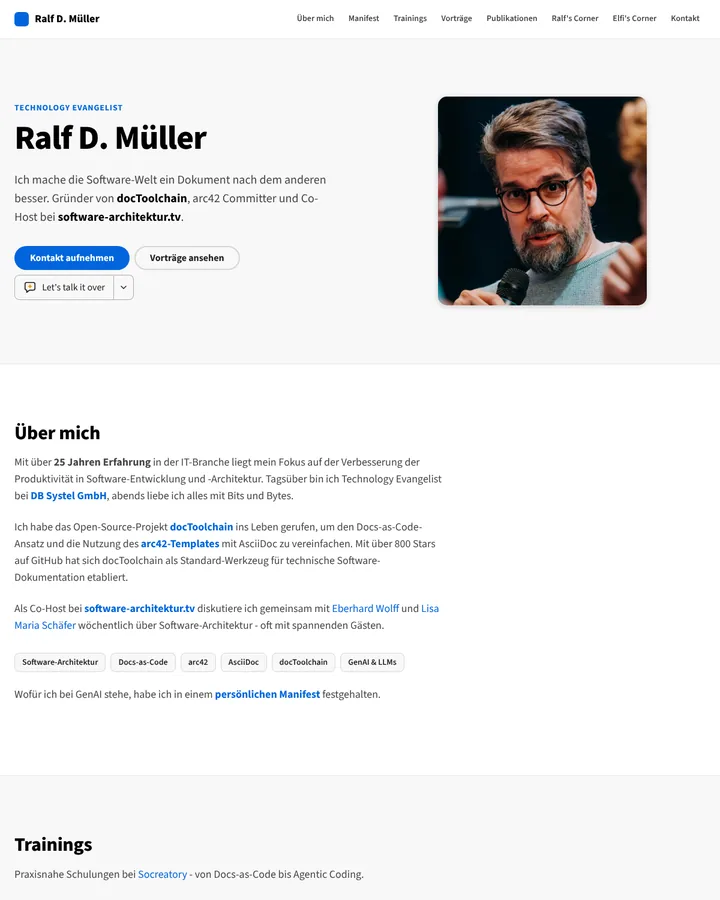
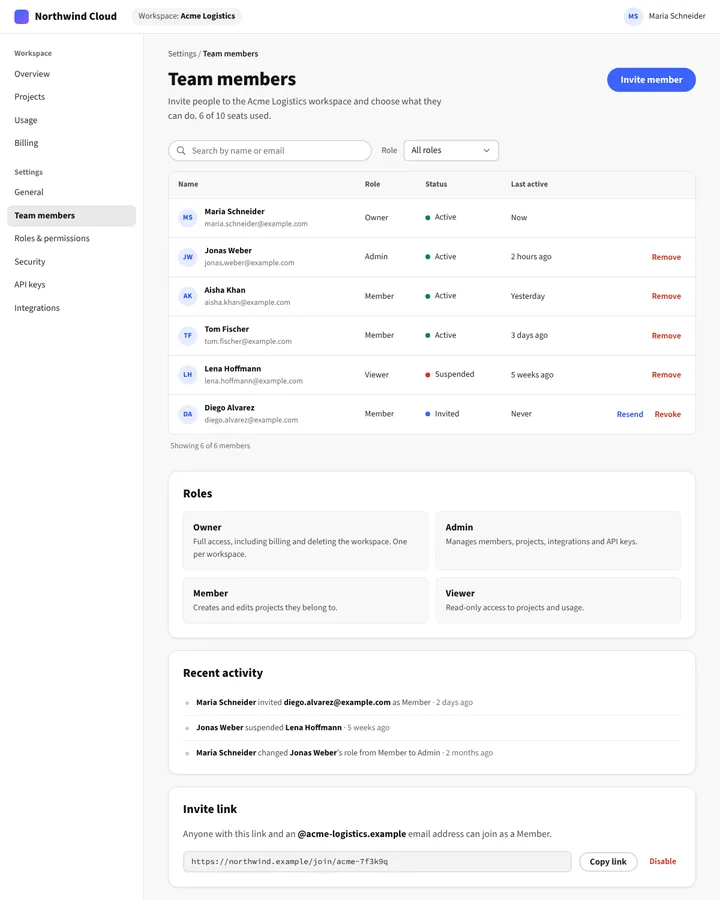
feat: app-page examples for the eleven design systems (#872)
Eleven Claude Opus 5.5 sessions, one per design-system anchor, each
redesigned the neutral "Team members" settings page with the gallery
prompt; one run each, no rerolls, every session checked its result in
a browser. The screenshots replace the homepage placeholders.

Two pages load their system's stylesheet from jsDelivr (USWDS,
Bootstrap 5). jsDelivr's /npm/ path serves npm package files byte for
byte, and npm is reachable from the screenshot environment, so those
files are served from the same packages; the gallery says so.

Claude-Session: https://claude.ai/code/session_01USvGjB2BpZmXPyxaoevKH5

diff --git a/scripts/lib/style-gallery.js b/scripts/lib/style-gallery.js
@@ -50,7 +50,7 @@ const TEXT = {
         heading: 'Design systems: one app page',
         intro: [
           'Design systems are made for product interfaces. Their differences show in tables, status labels, page headers and density, and a homepage has little of that. So the design systems redesign an app page instead: the "Team members" settings page of a fictional admin console, written for this gallery in a deliberately plain style. The first tile is that page.',
-          'These sessions ran on 30 October 2026 in a cloud workspace without web access. Fonts from Google Fonts were served from npm copies for the screenshots; licensed fonts such as Segoe UI or Adobe Clean appear in their fallback.',
+          'These sessions ran on 30 October 2026 in a cloud workspace without web access. For the screenshots, fonts from Google Fonts and stylesheets from jsDelivr were served from the same npm packages; licensed fonts such as Segoe UI or Adobe Clean appear in their fallback.',
         ],
         originalAlt: 'The neutral starting page, a team-members settings page, before any redesign',
         alt: (t) => `The settings page redesigned in the style of ${t}`,
@@ -78,7 +78,7 @@ const TEXT = {
         heading: 'Design-Systeme: eine App-Seite',
         intro: [
           'Design-Systeme sind für Produktoberflächen gemacht. Ihre Unterschiede zeigen sich in Tabellen, Status-Labels, Seitenköpfen und Dichte, und davon hat eine Homepage wenig. Deshalb gestalten die Design-Systeme stattdessen eine App-Seite neu: die Einstellungsseite „Team members“ einer erfundenen Admin-Konsole, für diese Galerie bewusst schlicht geschrieben. Die erste Kachel ist diese Seite.',
-          'Diese Sessions liefen am 30. Oktober 2026 in einer Cloud-Umgebung ohne Webzugriff. Schriften von Google Fonts kamen für die Screenshots aus npm-Kopien; lizenzierte Schriften wie Segoe UI oder Adobe Clean erscheinen in ihrer Ersatzschrift.',
+          'Diese Sessions liefen am 30. Oktober 2026 in einer Cloud-Umgebung ohne Webzugriff. Für die Screenshots kamen Schriften von Google Fonts und Stylesheets von jsDelivr aus denselben npm-Paketen; lizenzierte Schriften wie Segoe UI oder Adobe Clean erscheinen in ihrer Ersatzschrift.',
         ],
         originalAlt:
           'Die neutrale Ausgangsseite, eine Einstellungsseite für Teammitglieder, vor der Neugestaltung',
